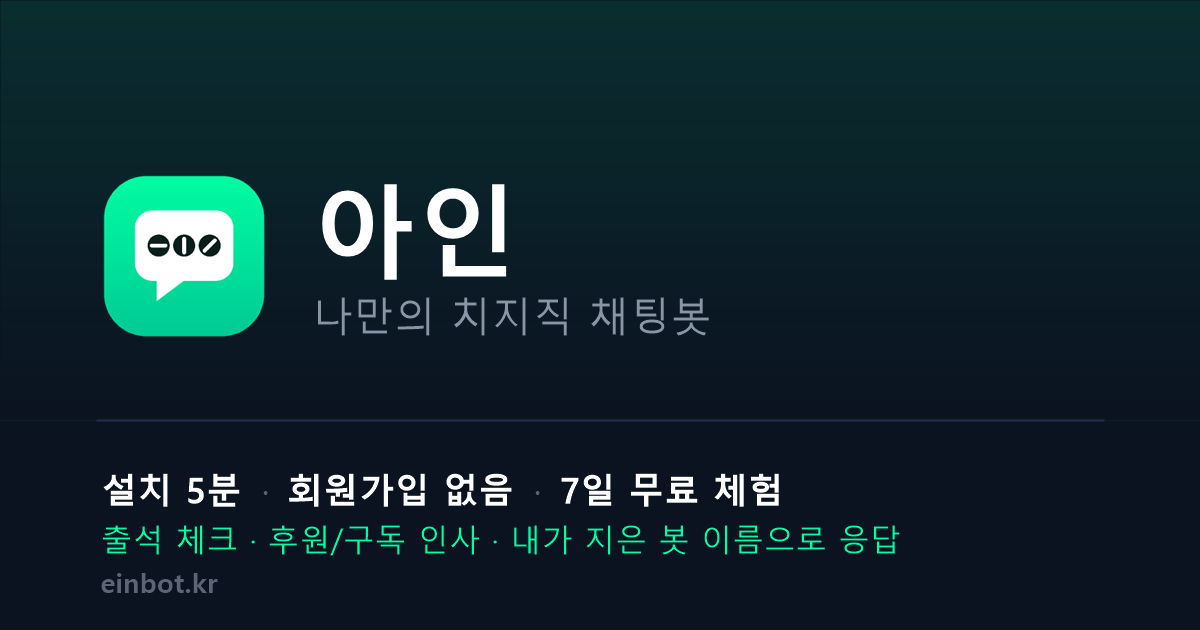
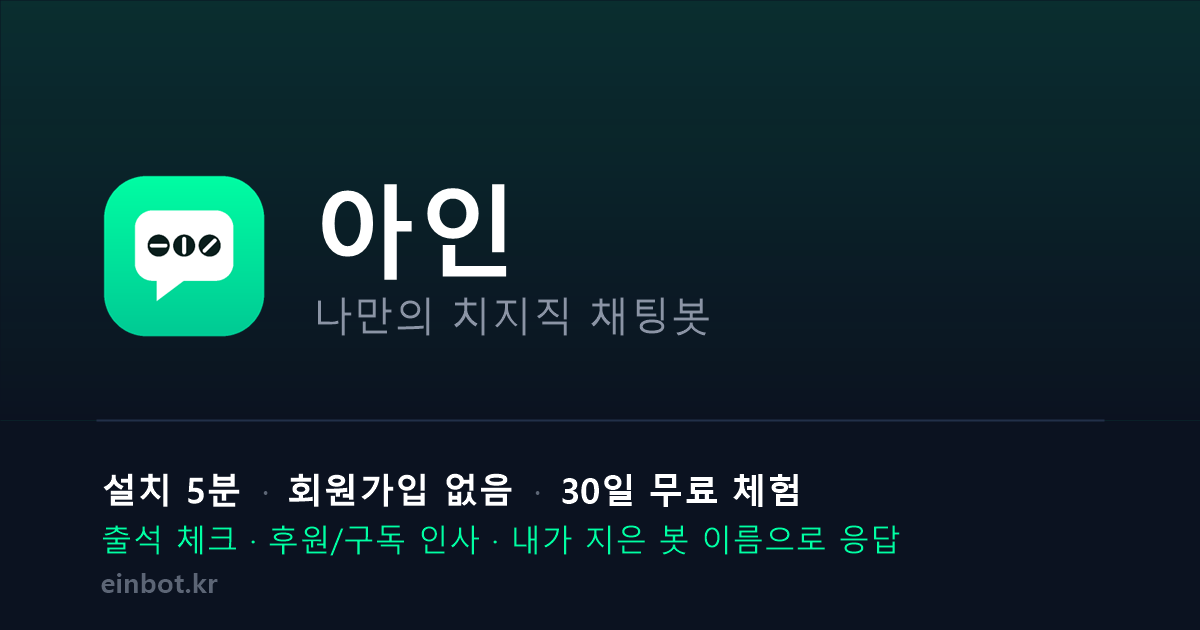
링크 미리보기 그림(og.png): 7일 무료 체험 → 30일 무료 체험, 그림 주소에 ?v=2 (미리보기 캐시 갱신)

Changed region(s): [[0.4625, 0.754, 0.6783, 0.8143]]

diff --git a/index.html b/index.html
@@ -17,14 +17,14 @@
 <meta property="og:title" content="아인 — 나만의 치지직 채팅봇">
 <meta property="og:description" content="설치 5분, 회원가입 없음. 출석 체크부터 후원·구독 인사까지, 내가 지은 봇 이름으로 응답합니다. 30일 무료 체험.">
 <meta property="og:url" content="https://einbot.kr/">
-<meta property="og:image" content="https://einbot.kr/og.png">
+<meta property="og:image" content="https://einbot.kr/og.png?v=2">
 <meta property="og:image:width" content="1200">
 <meta property="og:image:height" content="630">
 <meta property="og:image:alt" content="아인 — 나만의 치지직 채팅봇">
 <meta name="twitter:card" content="summary_large_image">
 <meta name="twitter:title" content="아인 — 나만의 치지직 채팅봇">
 <meta name="twitter:description" content="설치 5분, 회원가입 없음. 내가 지은 봇 이름으로 응답하는 치지직 채팅봇. 30일 무료 체험.">
-<meta name="twitter:image" content="https://einbot.kr/og.png">
+<meta name="twitter:image" content="https://einbot.kr/og.png?v=2">
 <link rel="canonical" href="https://einbot.kr/">
 <meta name="theme-color" content="#F7F9FB">
 <script>document.documentElement.classList.add('js');</script>
@@ -66,7 +66,7 @@
       "alternateName": "아인 - 나만의 채팅봇",
       "description": "신청 없이 봇 이름을 직접 정하는 치지직(CHZZK) 채팅봇. 시청자 출석 체크, 치즈 후원·구독·구독권 선물 감사 인사, 커스텀 명령어, 반복 공지를 내가 지은 봇 이름으로 처리합니다.",
       "url": "https://einbot.kr/",
-      "image": "https://einbot.kr/og.png",
+      "image": "https://einbot.kr/og.png?v=2",
       "applicationCategory": "CommunicationApplication",
       "operatingSystem": "Windows 10, Windows 11",
       "installUrl": "https://apps.microsoft.com/detail/9nw8q03rgqlv",

diff --git a/guide/install/index.html b/guide/install/index.html
@@ -14,7 +14,7 @@
 <meta property="og:title" content="치지직 채팅봇 설치 방법 — 아인 5분 설치 가이드">
 <meta property="og:description" content="Microsoft Store 설치 → API 키 발급 → 로그인 → 봇 이름 → 봇 시작. 치지직 채팅봇 아인을 5분 안에 붙이는 순서와 막히는 지점 정리.">
 <meta property="og:url" content="https://einbot.kr/guide/install/">
-<meta property="og:image" content="https://einbot.kr/og.png">
+<meta property="og:image" content="https://einbot.kr/og.png?v=2">
 <meta name="twitter:card" content="summary_large_image">
 <meta name="theme-color" content="#F7F9FB">
 <link rel="stylesheet" href="https://cdn.jsdelivr.net/gh/orioncactus/pretendard@v1.3.9/dist/web/variable/pretendardvariable-dynamic-subset.min.css">
@@ -40,7 +40,7 @@
       "datePublished": "2026-09-06",
       "dateModified": "2026-09-27",
       "mainEntityOfPage": "https://einbot.kr/guide/install/",
-      "image": "https://einbot.kr/og.png",
+      "image": "https://einbot.kr/og.png?v=2",
       "author": { "@id": "https://einbot.kr/#org" },
       "publisher": { "@id": "https://einbot.kr/#org" },
       "about": { "@id": "https://einbot.kr/#app" }

diff --git a/guide/commands/index.html b/guide/commands/index.html
@@ -14,7 +14,7 @@
 <meta property="og:title" content="치지직 채팅봇 명령어 목록과 설정 방법 — 아인">
 <meta property="og:description" content="기본 명령어, 채팅으로 추가하는 내 명령어, 치환자, 문구 바꾸기, 반복 공지. 치지직 채팅봇 아인의 명령어를 한 페이지에 정리.">
 <meta property="og:url" content="https://einbot.kr/guide/commands/">
-<meta property="og:image" content="https://einbot.kr/og.png">
+<meta property="og:image" content="https://einbot.kr/og.png?v=2">
 <meta name="twitter:card" content="summary_large_image">
 <meta name="theme-color" content="#F7F9FB">
 <link rel="stylesheet" href="https://cdn.jsdelivr.net/gh/orioncactus/pretendard@v1.3.9/dist/web/variable/pretendardvariable-dynamic-subset.min.css">
@@ -52,7 +52,7 @@
       "datePublished": "2026-09-06",
       "dateModified": "2026-09-27",
       "mainEntityOfPage": "https://einbot.kr/guide/commands/",
-      "image": "https://einbot.kr/og.png",
+      "image": "https://einbot.kr/og.png?v=2",
       "author": { "@id": "https://einbot.kr/#org" },
       "publisher": { "@id": "https://einbot.kr/#org" },
       "about": { "@id": "https://einbot.kr/#app" }

diff --git a/guide/attendance/index.html b/guide/attendance/index.html
@@ -14,7 +14,7 @@
 <meta property="og:title" content="치지직 출석 체크 봇 설정 방법 — 아인">
 <meta property="og:description" content="인사말 출석, 하루 기준 시각, 상황별 인사 문구, 다른 봇에서 출석 기록 이어받기. 치지직 출석 체크 봇 설정을 한 페이지에.">
 <meta property="og:url" content="https://einbot.kr/guide/attendance/">
-<meta property="og:image" content="https://einbot.kr/og.png">
+<meta property="og:image" content="https://einbot.kr/og.png?v=2">
 <meta name="twitter:card" content="summary_large_image">
 <meta name="theme-color" content="#F7F9FB">
 <link rel="stylesheet" href="https://cdn.jsdelivr.net/gh/orioncactus/pretendard@v1.3.9/dist/web/variable/pretendardvariable-dynamic-subset.min.css">
@@ -53,7 +53,7 @@
       "datePublished": "2026-09-06",
       "dateModified": "2026-09-09",
       "mainEntityOfPage": "https://einbot.kr/guide/attendance/",
-      "image": "https://einbot.kr/og.png",
+      "image": "https://einbot.kr/og.png?v=2",
       "author": { "@id": "https://einbot.kr/#org" },
       "publisher": { "@id": "https://einbot.kr/#org" },
       "about": { "@id": "https://einbot.kr/#app" }

diff --git a/guide/donation/index.html b/guide/donation/index.html
@@ -14,7 +14,7 @@
 <meta property="og:title" content="치지직 후원·구독 감사 인사 자동으로 하기 — 아인">
 <meta property="og:description" content="치즈 후원, 구독, 구독권 선물에 자동 감사 인사. 필요한 권한, 치환자, 문구 예시, 안 나갈 때 확인할 것.">
 <meta property="og:url" content="https://einbot.kr/guide/donation/">
-<meta property="og:image" content="https://einbot.kr/og.png">
+<meta property="og:image" content="https://einbot.kr/og.png?v=2">
 <meta name="twitter:card" content="summary_large_image">
 <meta name="theme-color" content="#F7F9FB">
 <link rel="stylesheet" href="https://cdn.jsdelivr.net/gh/orioncactus/pretendard@v1.3.9/dist/web/variable/pretendardvariable-dynamic-subset.min.css">
@@ -51,7 +51,7 @@
       "datePublished": "2026-09-06",
       "dateModified": "2026-09-21",
       "mainEntityOfPage": "https://einbot.kr/guide/donation/",
-      "image": "https://einbot.kr/og.png",
+      "image": "https://einbot.kr/og.png?v=2",
       "author": { "@id": "https://einbot.kr/#org" },
       "publisher": { "@id": "https://einbot.kr/#org" },
       "about": { "@id": "https://einbot.kr/#app" }

diff --git a/guide/troubleshooting/index.html b/guide/troubleshooting/index.html
@@ -14,7 +14,7 @@
 <meta property="og:title" content="치지직 채팅봇이 안 될 때 확인할 것 — 아인">
 <meta property="og:description" content="반응 없음, 권한 빠짐, 봇 계정 연결 끊김, 구독 인사 안 나감, 설정 미반영. 증상별 원인과 해결 순서.">
 <meta property="og:url" content="https://einbot.kr/guide/troubleshooting/">
-<meta property="og:image" content="https://einbot.kr/og.png">
+<meta property="og:image" content="https://einbot.kr/og.png?v=2">
 <meta name="twitter:card" content="summary_large_image">
 <meta name="theme-color" content="#F7F9FB">
 <link rel="stylesheet" href="https://cdn.jsdelivr.net/gh/orioncactus/pretendard@v1.3.9/dist/web/variable/pretendardvariable-dynamic-subset.min.css">
@@ -47,7 +47,7 @@
       "datePublished": "2026-09-09",
       "dateModified": "2026-09-27",
       "mainEntityOfPage": "https://einbot.kr/guide/troubleshooting/",
-      "image": "https://einbot.kr/og.png",
+      "image": "https://einbot.kr/og.png?v=2",
       "author": { "@id": "https://einbot.kr/#org" },
       "publisher": { "@id": "https://einbot.kr/#org" },
       "about": { "@id": "https://einbot.kr/#app" }

diff --git a/guide/overlay/index.html b/guide/overlay/index.html
@@ -14,7 +14,7 @@
 <meta property="og:title" content="치지직 채팅 오버레이·신청곡·알림·TTS·TITS 설정 방법 — 아인">
 <meta property="og:description" content="치지직 방송 화면에 채팅 오버레이와 알림 카드를 띄우고, 채팅 !신청곡 유튜브 링크로 신청곡을 받아 OBS에서 틀고, 구독·채팅을 TTS로 읽어 주고, VTube Studio 아바타에 TITS로 물건을 던지게 하는 방법. 공유 채팅 CSS 그대로 쓰기, OBS 권장 크기, 다크 모드까지.">
 <meta property="og:url" content="https://einbot.kr/guide/overlay/">
-<meta property="og:image" content="https://einbot.kr/og.png">
+<meta property="og:image" content="https://einbot.kr/og.png?v=2">
 <meta name="twitter:card" content="summary_large_image">
 <meta name="theme-color" content="#F7F9FB">
 <link rel="stylesheet" href="https://cdn.jsdelivr.net/gh/orioncactus/pretendard@v1.3.9/dist/web/variable/pretendardvariable-dynamic-subset.min.css">

diff --git a/compare/index.html b/compare/index.html
@@ -14,7 +14,7 @@
 <meta property="og:title" content="치지직 채팅봇 6종 비교표 — 공식 안내 기준 (2026년 9월)">
 <meta property="og:description" content="뚜봇·빵떡·한봇·나디아·브이찍·아인을 방식, 비용, 봇 이름, 데이터 위치, 기능 항목별로 비교한 표. 2026년 9월 20일 각 봇의 공식 안내를 직접 열어 확인했고, 아인만 직접 측정한 값을 따로 적었습니다.">
 <meta property="og:url" content="https://einbot.kr/compare/">
-<meta property="og:image" content="https://einbot.kr/og.png">
+<meta property="og:image" content="https://einbot.kr/og.png?v=2">
 <meta name="twitter:card" content="summary_large_image">
 <meta name="theme-color" content="#F7F9FB">
 <link rel="stylesheet" href="https://cdn.jsdelivr.net/gh/orioncactus/pretendard@v1.3.9/dist/web/variable/pretendardvariable-dynamic-subset.min.css">

diff --git a/guide/participation/index.html b/guide/participation/index.html
@@ -14,7 +14,7 @@
 <meta property="og:title" content="치지직 투표·추첨·룰렛 봇 사용법 — 아인">
 <meta property="og:description" content="치지직 방송에서 투표, 시청자 추첨, 돌림판, 후원 룰렛을 채팅봇으로 하는 방법. 시청자는 채팅에 번호만 치면 되고, 방장은 기능 창 버튼으로 진행합니다. OBS 오버레이 주소까지.">
 <meta property="og:url" content="https://einbot.kr/guide/participation/">
-<meta property="og:image" content="https://einbot.kr/og.png">
+<meta property="og:image" content="https://einbot.kr/og.png?v=2">
 <meta name="twitter:card" content="summary_large_image">
 <meta name="theme-color" content="#F7F9FB">
 <link rel="stylesheet" href="https://cdn.jsdelivr.net/gh/orioncactus/pretendard@v1.3.9/dist/web/variable/pretendardvariable-dynamic-subset.min.css">

diff --git a/guide/time/index.html b/guide/time/index.html
@@ -14,7 +14,7 @@
 <meta property="og:title" content="치지직 방송 카운터·타이머·스톱워치 오버레이 — 아인">
 <meta property="og:description" content="데스 카운터, 라면 타이머, 스톱워치를 치지직 방송 화면에 띄우는 방법. 아인 기능 창에서 버튼으로 조작하고 OBS 브라우저 소스로 보여 줍니다.">
 <meta property="og:url" content="https://einbot.kr/guide/time/">
-<meta property="og:image" content="https://einbot.kr/og.png">
+<meta property="og:image" content="https://einbot.kr/og.png?v=2">
 <meta name="twitter:card" content="summary_large_image">
 <meta name="theme-color" content="#F7F9FB">
 <link rel="stylesheet" href="https://cdn.jsdelivr.net/gh/orioncactus/pretendard@v1.3.9/dist/web/variable/pretendardvariable-dynamic-subset.min.css">

diff --git a/guide/index.html b/guide/index.html
@@ -14,7 +14,7 @@
 <meta property="og:title" content="아인 가이드 — 치지직 채팅봇 설치·설정·명령어">
 <meta property="og:description" content="설치 방법, 명령어 목록과 설정, 출석 체크, 후원·구독 인사. 치지직 채팅봇 아인 사용 가이드 모음.">
 <meta property="og:url" content="https://einbot.kr/guide/">
-<meta property="og:image" content="https://einbot.kr/og.png">
+<meta property="og:image" content="https://einbot.kr/og.png?v=2">
 <meta name="twitter:card" content="summary_large_image">
 <meta name="theme-color" content="#F7F9FB">
 <link rel="stylesheet" href="https://cdn.jsdelivr.net/gh/orioncactus/pretendard@v1.3.9/dist/web/variable/pretendardvariable-dynamic-subset.min.css">

diff --git a/updates/index.html b/updates/index.html
@@ -14,7 +14,7 @@
 <meta property="og:title" content="아인 업데이트 기록 — 치지직 채팅봇 버전별 변경 사항">
 <meta property="og:description" content="Microsoft Store로 자동 배포된 아인의 변경 사항을 버전과 날짜로 정리합니다.">
 <meta property="og:url" content="https://einbot.kr/updates/">
-<meta property="og:image" content="https://einbot.kr/og.png">
+<meta property="og:image" content="https://einbot.kr/og.png?v=2">
 <meta name="twitter:card" content="summary_large_image">
 <meta name="theme-color" content="#F7F9FB">
 <link rel="stylesheet" href="https://cdn.jsdelivr.net/gh/orioncactus/pretendard@v1.3.9/dist/web/variable/pretendardvariable-dynamic-subset.min.css">
